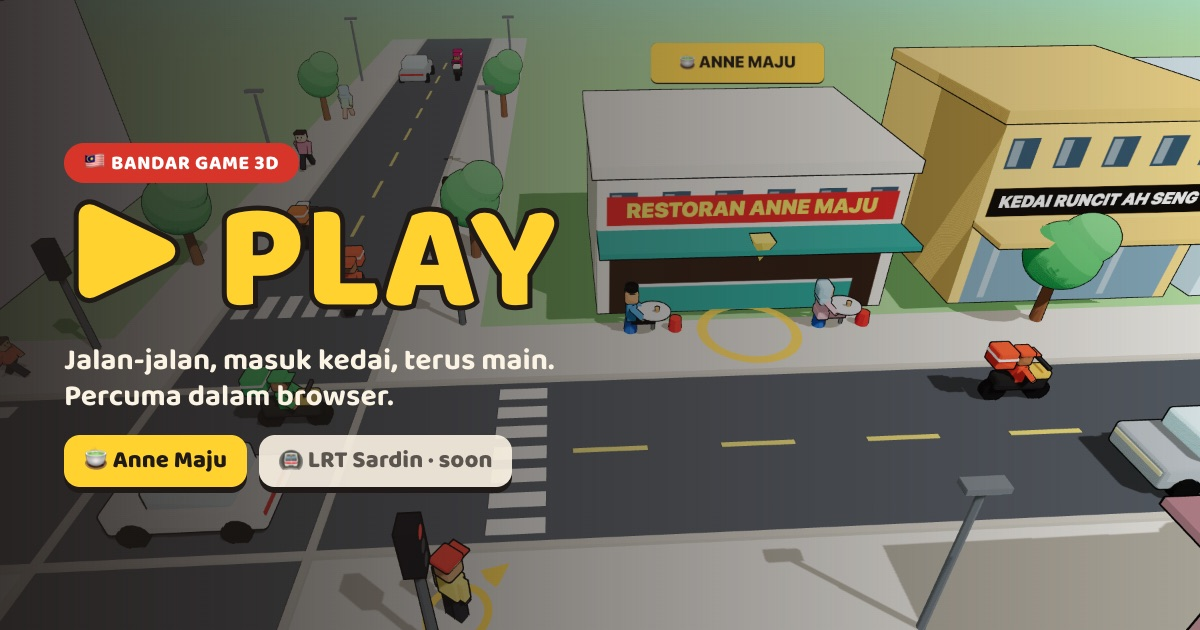
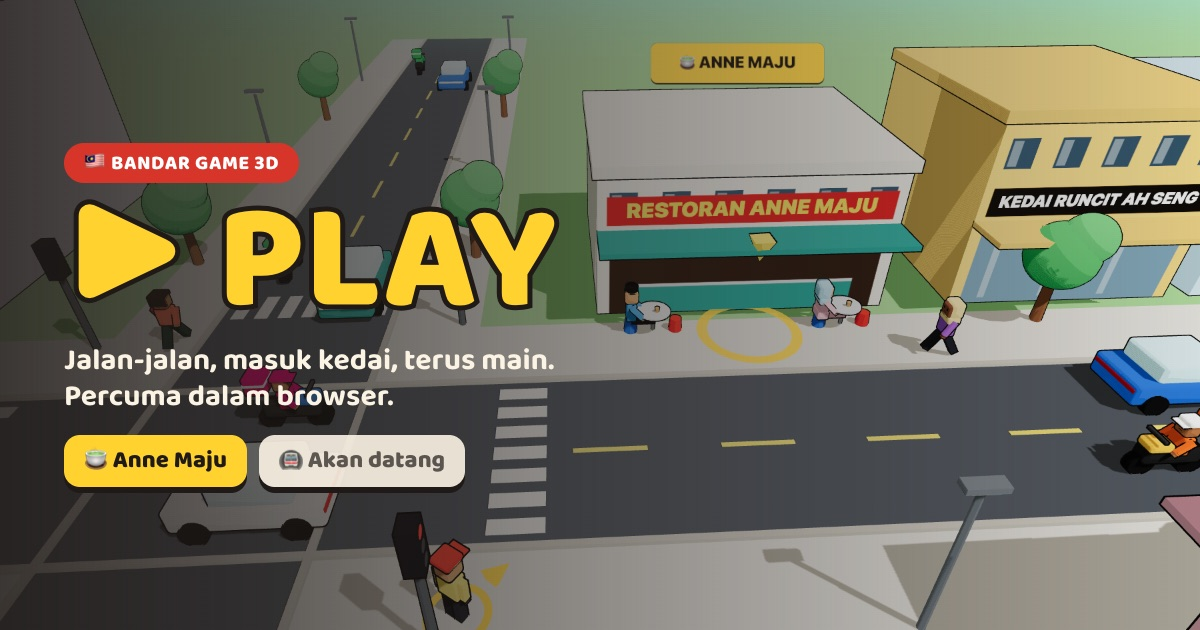
Replace LRT game teaser with a coming-soon Stesen LRT; camera faces your side of the street
- Remove every mention of the unreleased LRT game; the building is now
  "Stesen LRT" (coming soon) with an elevated platform, canopy and a
  parked two-car train
- Camera swings round when you walk onto the south sidewalk so you face
  those shops instead of being blocked by them; controls follow the
  camera, and the cutaway now works for either side
- Spawn on the north sidewalk facing Restoran Anne Maju
- Pedestrians walk a little closer to the road, clear of outdoor tables

diff --git a/src/hub/city.tsx b/src/hub/city.tsx
@@ -5,7 +5,7 @@ import { memo, useMemo, useRef } from "react";
 import * as THREE from "three";
 import type { Look } from "@/shared/three/look";
 import { Person, type Pose } from "@/shared/three/person";
-import { Ball, Box, Cyl, ToonMaterial, toonGradient } from "@/shared/three/toon";
+import { Ball, Box, Cyl, RBox, ToonMaterial, toonGradient } from "@/shared/three/toon";
 import { streetSpots } from "./colliders";
 import { type Building, BUILDINGS, doorSpot, EXTENT, footprint, ROAD_HALF, WALK_HALF } from "./world-data";
 
@@ -124,7 +124,8 @@ function BuildingMesh({ b, onTap }: { b: Building; onTap: () => void }) {
   // Cutaway: a building between the camera and the street hides itself so it never blocks the view
   useFrame(({ camera }) => {
     if (!group.current) return;
-    const between = b.side === "south" && camera.position.z > f.minZ - 1.5 && Math.abs(camera.position.x - b.x) < b.w / 2 + 5;
+    const near = Math.abs(camera.position.x - b.x) < b.w / 2 + 5;
+    const between = near && (b.side === "south" ? camera.position.z > f.minZ - 1.5 : camera.position.z < f.maxZ + 1.5);
     group.current.visible = !between;
   });
   return (
@@ -146,6 +147,7 @@ function BuildingMesh({ b, onTap }: { b: Building; onTap: () => void }) {
       {/* Five-foot way awning */}
       <Box size={[b.w, 0.18, 1.6]} position={[b.x, b.kind === "mall" ? 4.2 : 3.1, f.front + f.facing * 0.8]} color={b.kind === "mamak" ? "#2f8f86" : shade(b.color)} />
       {b.kind === "mamak" && <MamakFront b={b} />}
+      {b.kind === "lrt" && <LrtPlatform b={b} />}
       {(b.game || b.soon) && <FloatingLabel b={b} />}
     </group>
   );
@@ -186,6 +188,35 @@ function SeatedDiner({ look, x, z }: { look: Look; x: number; z: number }) {
   return <Person look={look} getPose={getPose} />;
 }
 
+// Elevated platform on pillars above the ticket hall, with a two-car train waiting at it
+function LrtPlatform({ b }: { b: Building }) {
+  const f = footprint(b);
+  const y = b.h + 1.6; // platform deck height
+  const len = b.w + 6;
+  return (
+    <group position={[b.x, 0, f.cz]}>
+      {/* Guideway pillars running beyond the station */}
+      {[-len / 2 + 2, -len / 4, len / 4, len / 2 - 2].map((x) => (
+        <Box key={x} size={[0.9, y, 0.9]} position={[x, y / 2, 0]} color="#c9cdd2" />
+      ))}
+      <Box size={[len, 0.5, 3.4]} position={[0, y, 0]} color="#b9bec4" />
+      {/* Platform canopy */}
+      <Box size={[b.w, 0.25, 4.6]} position={[0, y + 3.1, 0]} color="#1f5fa8" />
+      {[-b.w / 2 + 0.4, b.w / 2 - 0.4].map((x) => (
+        <Box key={x} size={[0.25, 3, 0.25]} position={[x, y + 1.6, 1.9]} color="#9aa1a7" />
+      ))}
+      {/* Two-car train */}
+      {[-2.3, 2.3].map((x) => (
+        <group key={x} position={[x, y + 0.25, 0]}>
+          <RBox size={[4.4, 2.1, 2.6]} radius={0.35} position={[0, 1.05, 0]} color="#f4f6f8" />
+          <Box size={[4.42, 0.35, 2.62]} position={[0, 0.55, 0]} color="#1f5fa8" outline={false} />
+          <Box size={[4.0, 0.7, 2.64]} position={[0, 1.45, 0]} color="#3e5566" outline={false} />
+        </group>
+      ))}
+    </group>
+  );
+}
+
 // A bobbing sign above game buildings: big emoji + title, always facing the camera
 function FloatingLabel({ b }: { b: Building }) {
   const ref = useRef<THREE.Group>(null);
@@ -193,12 +224,12 @@ function FloatingLabel({ b }: { b: Building }) {
   const spot = doorSpot(b);
   useFrame(({ camera, clock }) => {
     if (!ref.current) return;
-    ref.current.position.y = b.h + 2.4 + Math.sin(clock.elapsedTime * 2) * 0.25;
+    ref.current.position.y = labelY(b) + Math.sin(clock.elapsedTime * 2) * 0.25;
     ref.current.quaternion.copy(camera.quaternion);
   });
   return (
     <>
-      <group ref={ref} position={[b.x, b.h + 2.4, footprint(b).cz]}>
+      <group ref={ref} position={[b.x, labelY(b), footprint(b).cz]}>
         <mesh>
           <planeGeometry args={[6, 1.5]} />
           <meshBasicMaterial map={tex} transparent toneMapped={false} depthWrite={false} />
@@ -208,6 +239,9 @@ function FloatingLabel({ b }: { b: Building }) {
     </>
   );
 }
+
+// Float the label clear of the roof (or of the LRT platform canopy)
+const labelY = (b: Building) => (b.kind === "lrt" ? b.h + 7.4 : b.h + 2.4);
 
 // Pulsing ring + bouncing arrow on the doorstep of a playable building
 function DoorMarker({ x, z }: { x: number; z: number }) {

diff --git a/src/hub/player.tsx b/src/hub/player.tsx
@@ -63,6 +63,10 @@ export function Player({
   const moving = useRef(false);
   const zone = useRef<string | null>(null);
   const stride = useRef({ dist: 0, alt: false });
+  // Camera yaw: 0 looks north (at the north-side shops), PI looks south when you're on the south sidewalk
+  const initialYaw = spawn.z > 3 ? Math.PI : 0;
+  const yaw = useRef(initialYaw);
+  const yawTarget = useRef(initialYaw);
   const ring = useRef<THREE.Mesh>(null);
   const guide = useRef<THREE.Group>(null);
   const camTarget = useMemo(() => new THREE.Vector3(), []);
@@ -73,10 +77,12 @@ export function Player({
     const dt = Math.min(rawDt, 0.05);
     const p = pos.current;
 
-    // Joystick/keys win over tap-to-walk; the camera never rotates, so screen-up is world -z
+    // Joystick/keys win over tap-to-walk; input is relative to where the camera is facing
     const mv = moveVector();
-    let vx = mv.x;
-    let vz = -mv.y;
+    const cy = Math.cos(yaw.current);
+    const sy = Math.sin(yaw.current);
+    let vx = mv.x * cy - mv.y * sy;
+    let vz = -mv.x * sy - mv.y * cy;
     if (vx === 0 && vz === 0 && input.target) {
       const dx = input.target.x - p.x;
       const dz = input.target.z - p.z;
@@ -116,14 +122,20 @@ export function Player({
     playerShared.x = p.x;
     playerShared.z = p.z;
 
-    // Third-person follow camera: higher and further back on tall screens
-    // Steep angle so buildings on the near side of the street don't hide the player
+    // Swing the camera round to face whichever row of shops you're walking along (with hysteresis)
+    if (p.z > 3.4) yawTarget.current = Math.PI;
+    else if (p.z < 2.6) yawTarget.current = 0;
+    yaw.current += (yawTarget.current - yaw.current) * (1 - Math.exp(-dt * 3));
+
+    // Third-person follow camera, steep enough that near-side buildings rarely get in the way
     const back = aspect < 1 ? 11 : 8.5;
     const up = aspect < 1 ? 15 : 12;
     if (followCamera) {
-      camPos.set(p.x, up, p.z + back);
+      const ys = Math.sin(yaw.current);
+      const yc = Math.cos(yaw.current);
+      camPos.set(p.x + ys * back, up, p.z + yc * back);
       camera.position.lerp(camPos, 1 - Math.exp(-dt * 5));
-      camTarget.set(p.x, 1, p.z - 1.5);
+      camTarget.set(p.x - ys * 1.5, 1, p.z - yc * 1.5);
       camera.lookAt(camTarget);
     }
 

diff --git a/src/hub/world-data.ts b/src/hub/world-data.ts
@@ -32,7 +32,7 @@ export const BUILDINGS: Building[] = [
   { id: "klinik", kind: "shophouse", sign: "KLINIK 24 JAM", x: 35, side: "north", w: 7, d: 8, h: 6, color: "#bfe1f2" },
   { id: "parking", kind: "mall", sign: "MEGA MALL", x: -20, side: "north", w: 18, d: 12, h: 9, color: "#d9d4f0", soon: { title: "Cari Parking", emoji: "🚗" } },
   { id: "kopitiam", kind: "shophouse", sign: "KOPITIAM", x: -34, side: "north", w: 7, d: 8, h: 6, color: "#f5b7a3" },
-  { id: "lrt", kind: "lrt", sign: "LRT", x: -19, side: "south", w: 16, d: 9, h: 7, color: "#e6e9ec", soon: { title: "LRT Sardin", emoji: "🚇" } },
+  { id: "lrt", kind: "lrt", sign: "STESEN LRT", x: -19, side: "south", w: 16, d: 9, h: 4.6, color: "#e6e9ec", soon: { title: "Stesen LRT", emoji: "🚇" } },
   { id: "gunting", kind: "shophouse", sign: "KEDAI GUNTING", x: -34, side: "south", w: 7, d: 8, h: 6, color: "#a8d8b0" },
   { id: "bank", kind: "shophouse", sign: "BANK", x: 14, side: "south", w: 9, d: 8, h: 7, color: "#e3e1dc" },
   { id: "kedai-kain", kind: "shophouse", sign: "KEDAI KAIN", x: 24, side: "south", w: 8, d: 8, h: 6.5, color: "#f3b6c9" },

diff --git a/src/hub/poster.tsx b/src/hub/poster.tsx
@@ -19,7 +19,7 @@ export function HubPoster() {
         <p className="max-w-lg text-3xl font-bold text-cream">Jalan-jalan, masuk kedai, terus main. Percuma dalam browser.</p>
         <div className="mt-1 flex gap-3">
           <span className="rounded-2xl bg-amber-300 px-5 py-2.5 text-2xl font-extrabold text-ink shadow-[0_6px_0_#1f1a17]">🍵 Anne Maju</span>
-          <span className="rounded-2xl bg-cream/90 px-5 py-2.5 text-2xl font-extrabold text-ink/70 shadow-[0_6px_0_#1f1a17]">🚇 LRT Sardin · soon</span>
+          <span className="rounded-2xl bg-cream/90 px-5 py-2.5 text-2xl font-extrabold text-ink/70 shadow-[0_6px_0_#1f1a17]">🚇 Akan datang</span>
         </div>
       </div>
     </div>

diff --git a/src/app/page.tsx b/src/app/page.tsx
@@ -10,7 +10,7 @@ const image = { url: "/og/play.jpg", width: 1200, height: 630, alt: "Play: banda
 export const metadata: Metadata = {
   title: { absolute: title },
   description,
-  keywords: ["game malaysia", "game 3d percuma", "browser game malaysia", "anne maju", "game mamak", "lrt sardin", "bandar 3d"],
+  keywords: ["game malaysia", "game 3d percuma", "browser game malaysia", "anne maju", "game mamak", "bandar 3d"],
   alternates: { canonical: "/" },
   openGraph: { title, description, url: "/", images: [image], siteName: site.name, locale: site.locale, type: "website" },
   twitter: { title, description, images: [image] },

diff --git a/src/hub/npcs.tsx b/src/hub/npcs.tsx
@@ -13,7 +13,7 @@ export const Pedestrians = memo(function Pedestrians() {
   const [walkers] = useState(() =>
       Array.from({ length: 7 }, (_, i): Walker & { look: ReturnType<typeof randomLook> } => ({
         axis: i % 3 === 0 ? "z" : "x",
-        side: (i % 2 ? 1 : -1) * (SIDEWALK_MID - 0.4),
+        side: (i % 2 ? 1 : -1) * (SIDEWALK_MID - 0.8),
         start: Math.random() * 1000,
         speed: 1.1 + Math.random() * 0.5,
         phase: Math.random(),

diff --git a/src/hub/hub.tsx b/src/hub/hub.tsx
@@ -16,7 +16,7 @@ const World = dynamic(() => import("./world"), {
 
 // Games send players back here with this key so they reappear at the building they left
 export const SPAWN_KEY = "dotkod-play:spawn";
-const DEFAULT_SPAWN = { x: 4.2, z: 4.6, rotY: Math.PI * 0.8 };
+const DEFAULT_SPAWN = { x: 7.5, z: -4.4, rotY: Math.PI / 2 };
 
 function readSpawn() {
   try {
